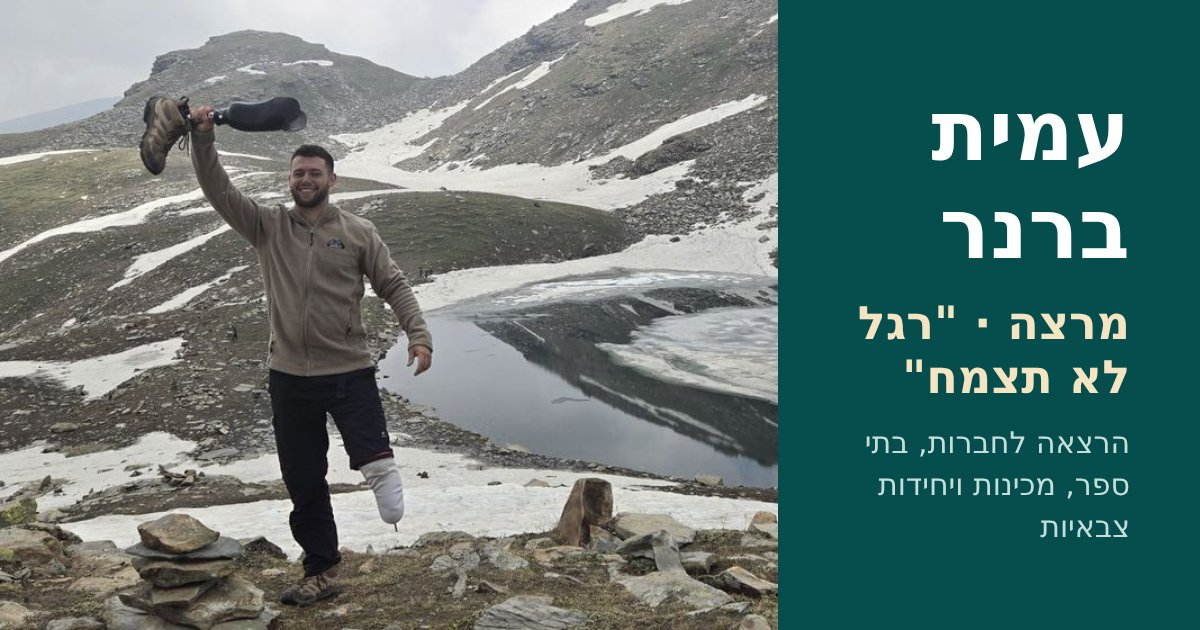
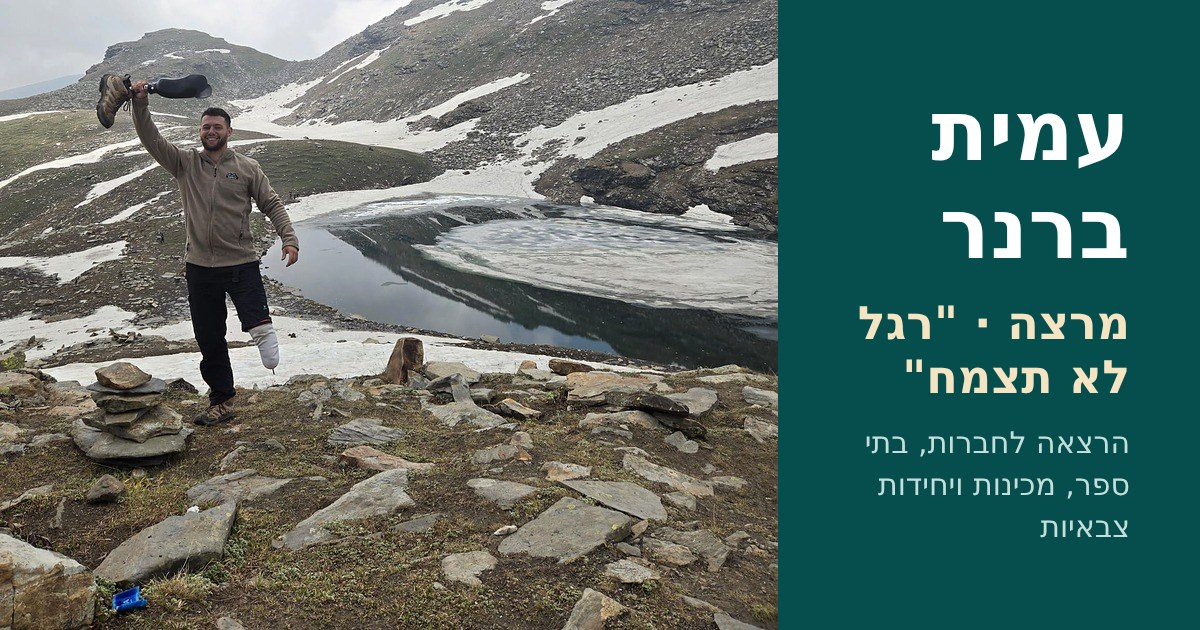
Hero photo: serve full-resolution 1500px version (srcset), light sharpening; rebuild og-image from the original
Claude-Session: https://claude.ai/code/session_011LcFNHfkcRcj8DehCeaHZi

diff --git a/index.html b/index.html
@@ -1038,7 +1038,7 @@
             </div>
         </div>
         <div class="hero-image">
-            <img fetchpriority="high" src="images/hero-amit.webp" width="1000" height="1333" alt="עמית ברנר" id="mainPhoto">
+            <img fetchpriority="high" src="images/hero-amit-1000.webp" srcset="images/hero-amit-1000.webp 1000w, images/hero-amit-1500.webp 1500w" sizes="(min-width: 1025px) 55vw, 100vw" width="1000" height="1333" alt="עמית ברנר" id="mainPhoto">
         </div>
     </section>
     
